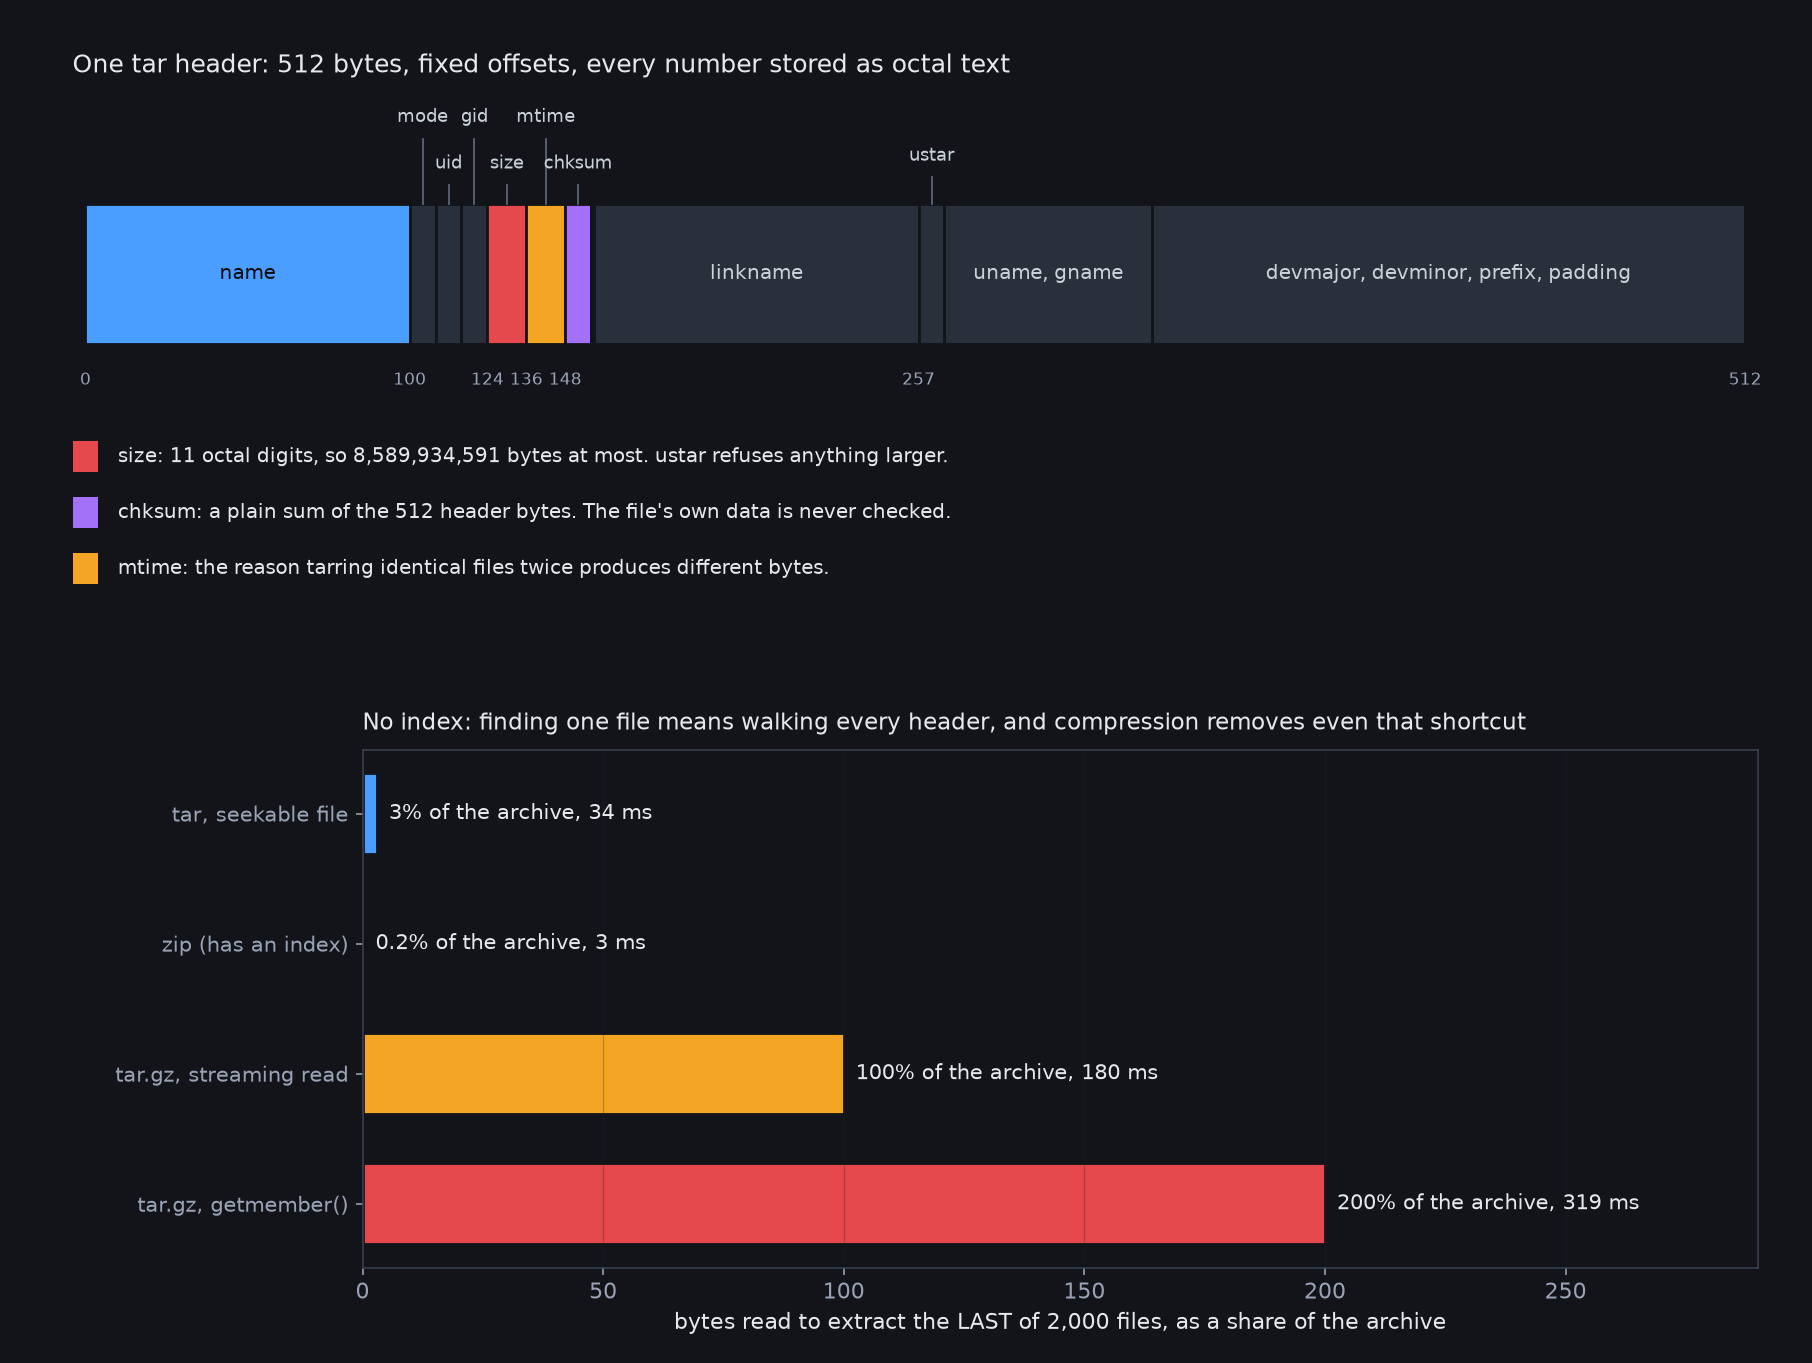
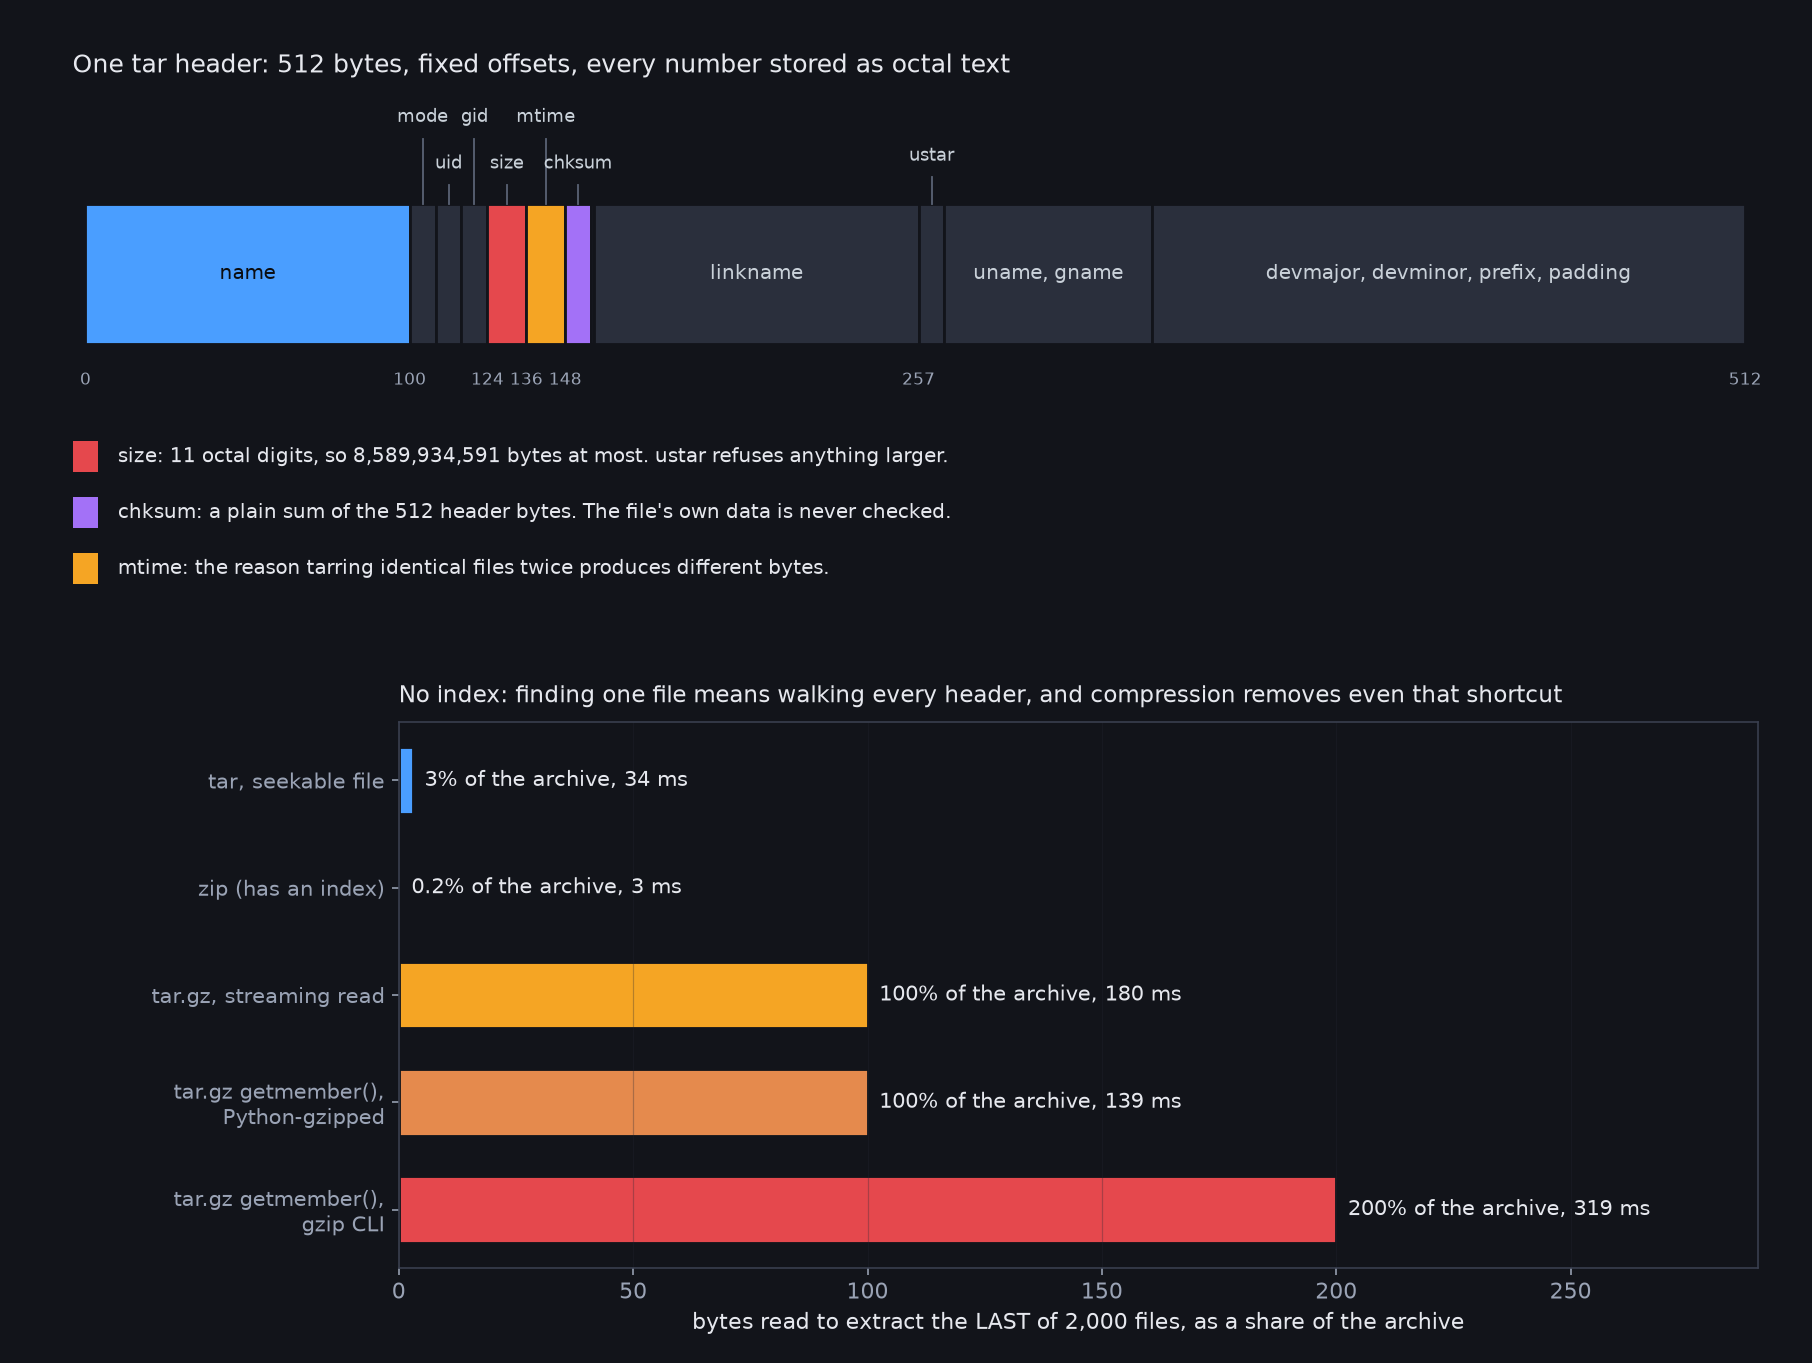
correct the getmember() figure: 200% depends on which gzip wrote the archive
Claude-Session: https://claude.ai/code/session_014NEZgqnSUPPLL5nzSpTZta

Changed region(s): [[0.0618, 0.493, 0.8962, 0.9861], [0.8653, 0.9244, 0.8962, 0.9552]]

diff --git a/chart.py b/chart.py
@@ -27,9 +27,11 @@ notes=[("#e5484d","size: 11 octal digits, so 8,589,934,591 bytes at most. ustar 
 for i,(c,t) in enumerate(notes):
     y=0.72-i*0.36
     ax.add_patch(P.Rectangle((-4,y-0.1),8,0.2,facecolor=c,edgecolor="none")); ax.text(10,y,t,va="center",fontsize=10)
-ax2=fig.add_axes([0.20,0.07,0.77,0.38])
+ax2=fig.add_axes([0.22,0.07,0.75,0.40])
 rows=[("tar, seekable file",3.0,33.6,"#4a9eff"),("zip (has an index)",0.2,3.3,"#3fb950"),
-      ("tar.gz, streaming read",100.0,180.1,"#f5a524"),("tar.gz, getmember()",200.0,318.9,"#e5484d")]
+      ("tar.gz, streaming read",100.0,180.1,"#f5a524"),
+      ("tar.gz getmember(),\nPython-gzipped",100.0,138.8,"#e58a4d"),
+      ("tar.gz getmember(),\ngzip CLI",200.0,318.9,"#e5484d")]
 for i,(lab,pct,ms,c) in enumerate(rows):
     ax2.barh(i,pct,color=c,edgecolor="#12141a",lw=1.4,height=.62)
     ax2.text(pct+2.5,i,f"{pct:g}% of the archive, {ms:.0f} ms",va="center",fontsize=10.5)

diff --git a/README.md b/README.md
@@ -18,6 +18,12 @@ The code behind the article. Every claim was checked against GNU tar 1.35 and Py
 | tar, seekable file | 3.0% | 34 ms |
 | zip, which has an index | 0.2% | 3 ms |
 | tar.gz, streaming read | 100% | 180 ms |
-| tar.gz, Python `getmember()` | 200% | 319 ms |
+| tar.gz, `getmember()`, archive compressed by Python's `gzip` | 100% | 139 ms |
+| tar.gz, `getmember()`, archive compressed by the `gzip` CLI | 200% | 319 ms |
+
+The last two rows are byte-identical archives once decompressed. Both make `getmember()` scan
+the whole thing and then seek about 50 KB backwards to the last member; only the one written by
+the `gzip` CLI caused a rewind to offset 0 and a second full decompression. Why that differs is
+not established here.
 
 MIT licensed.
